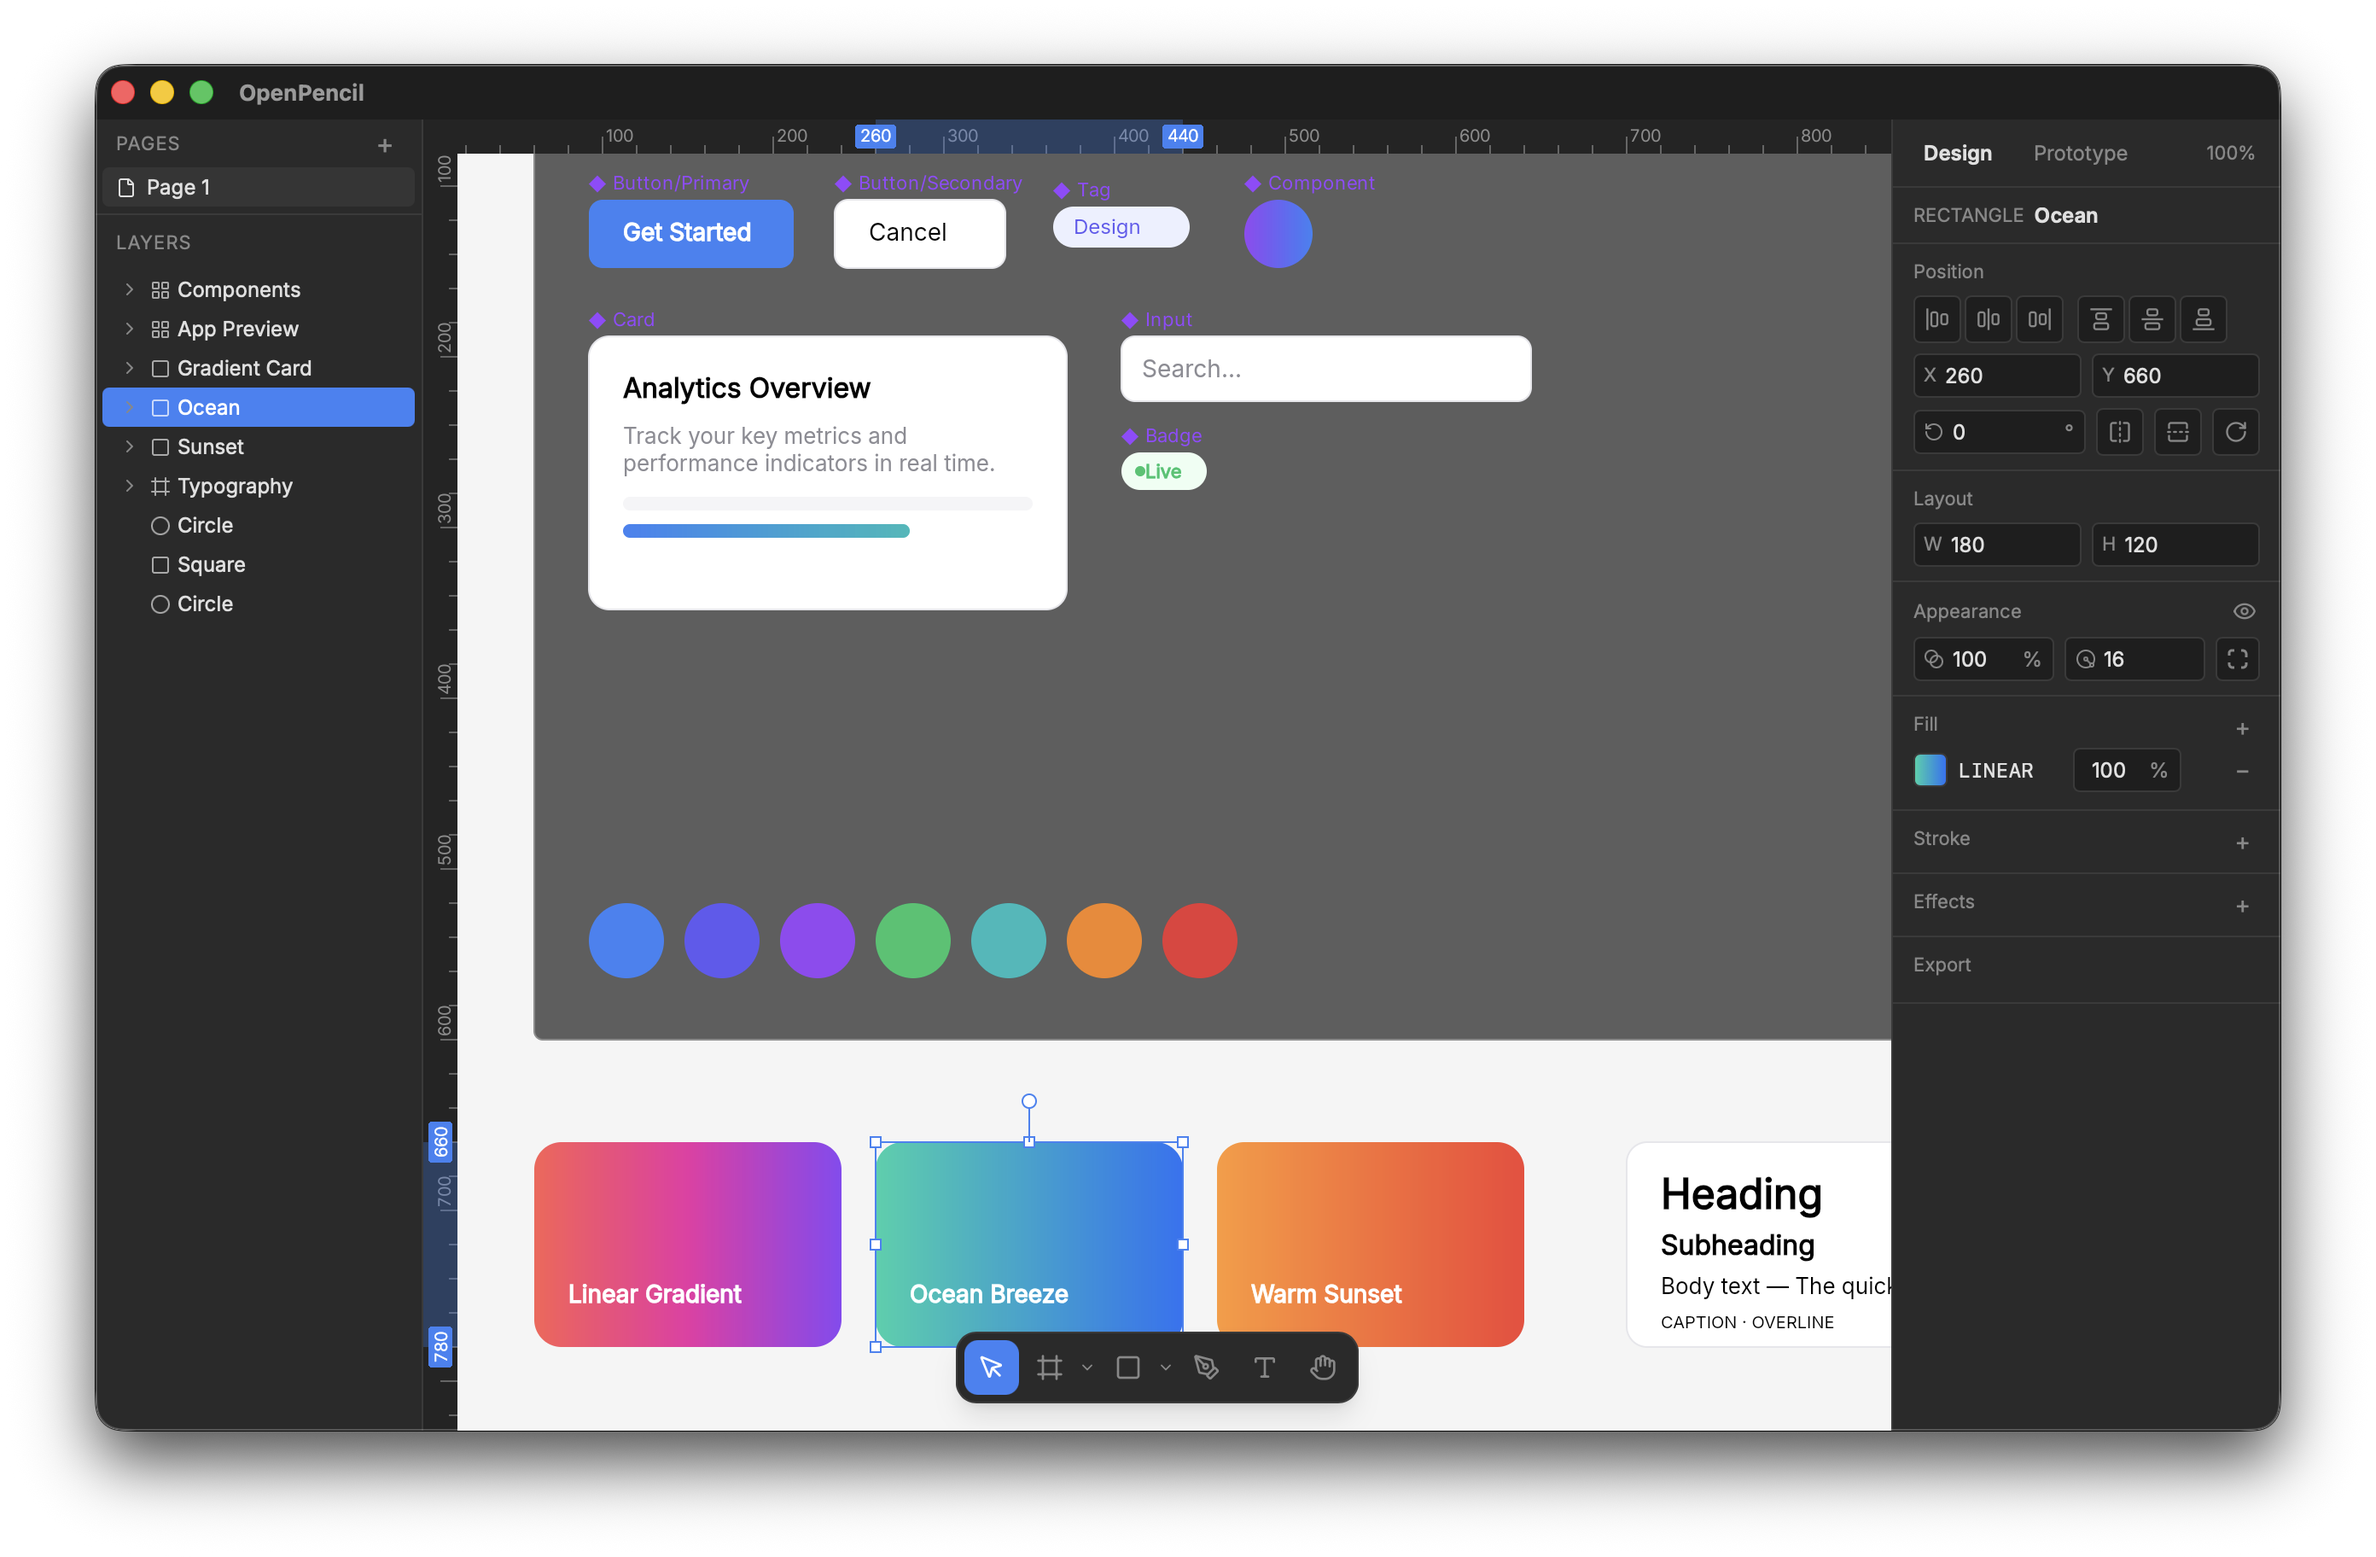
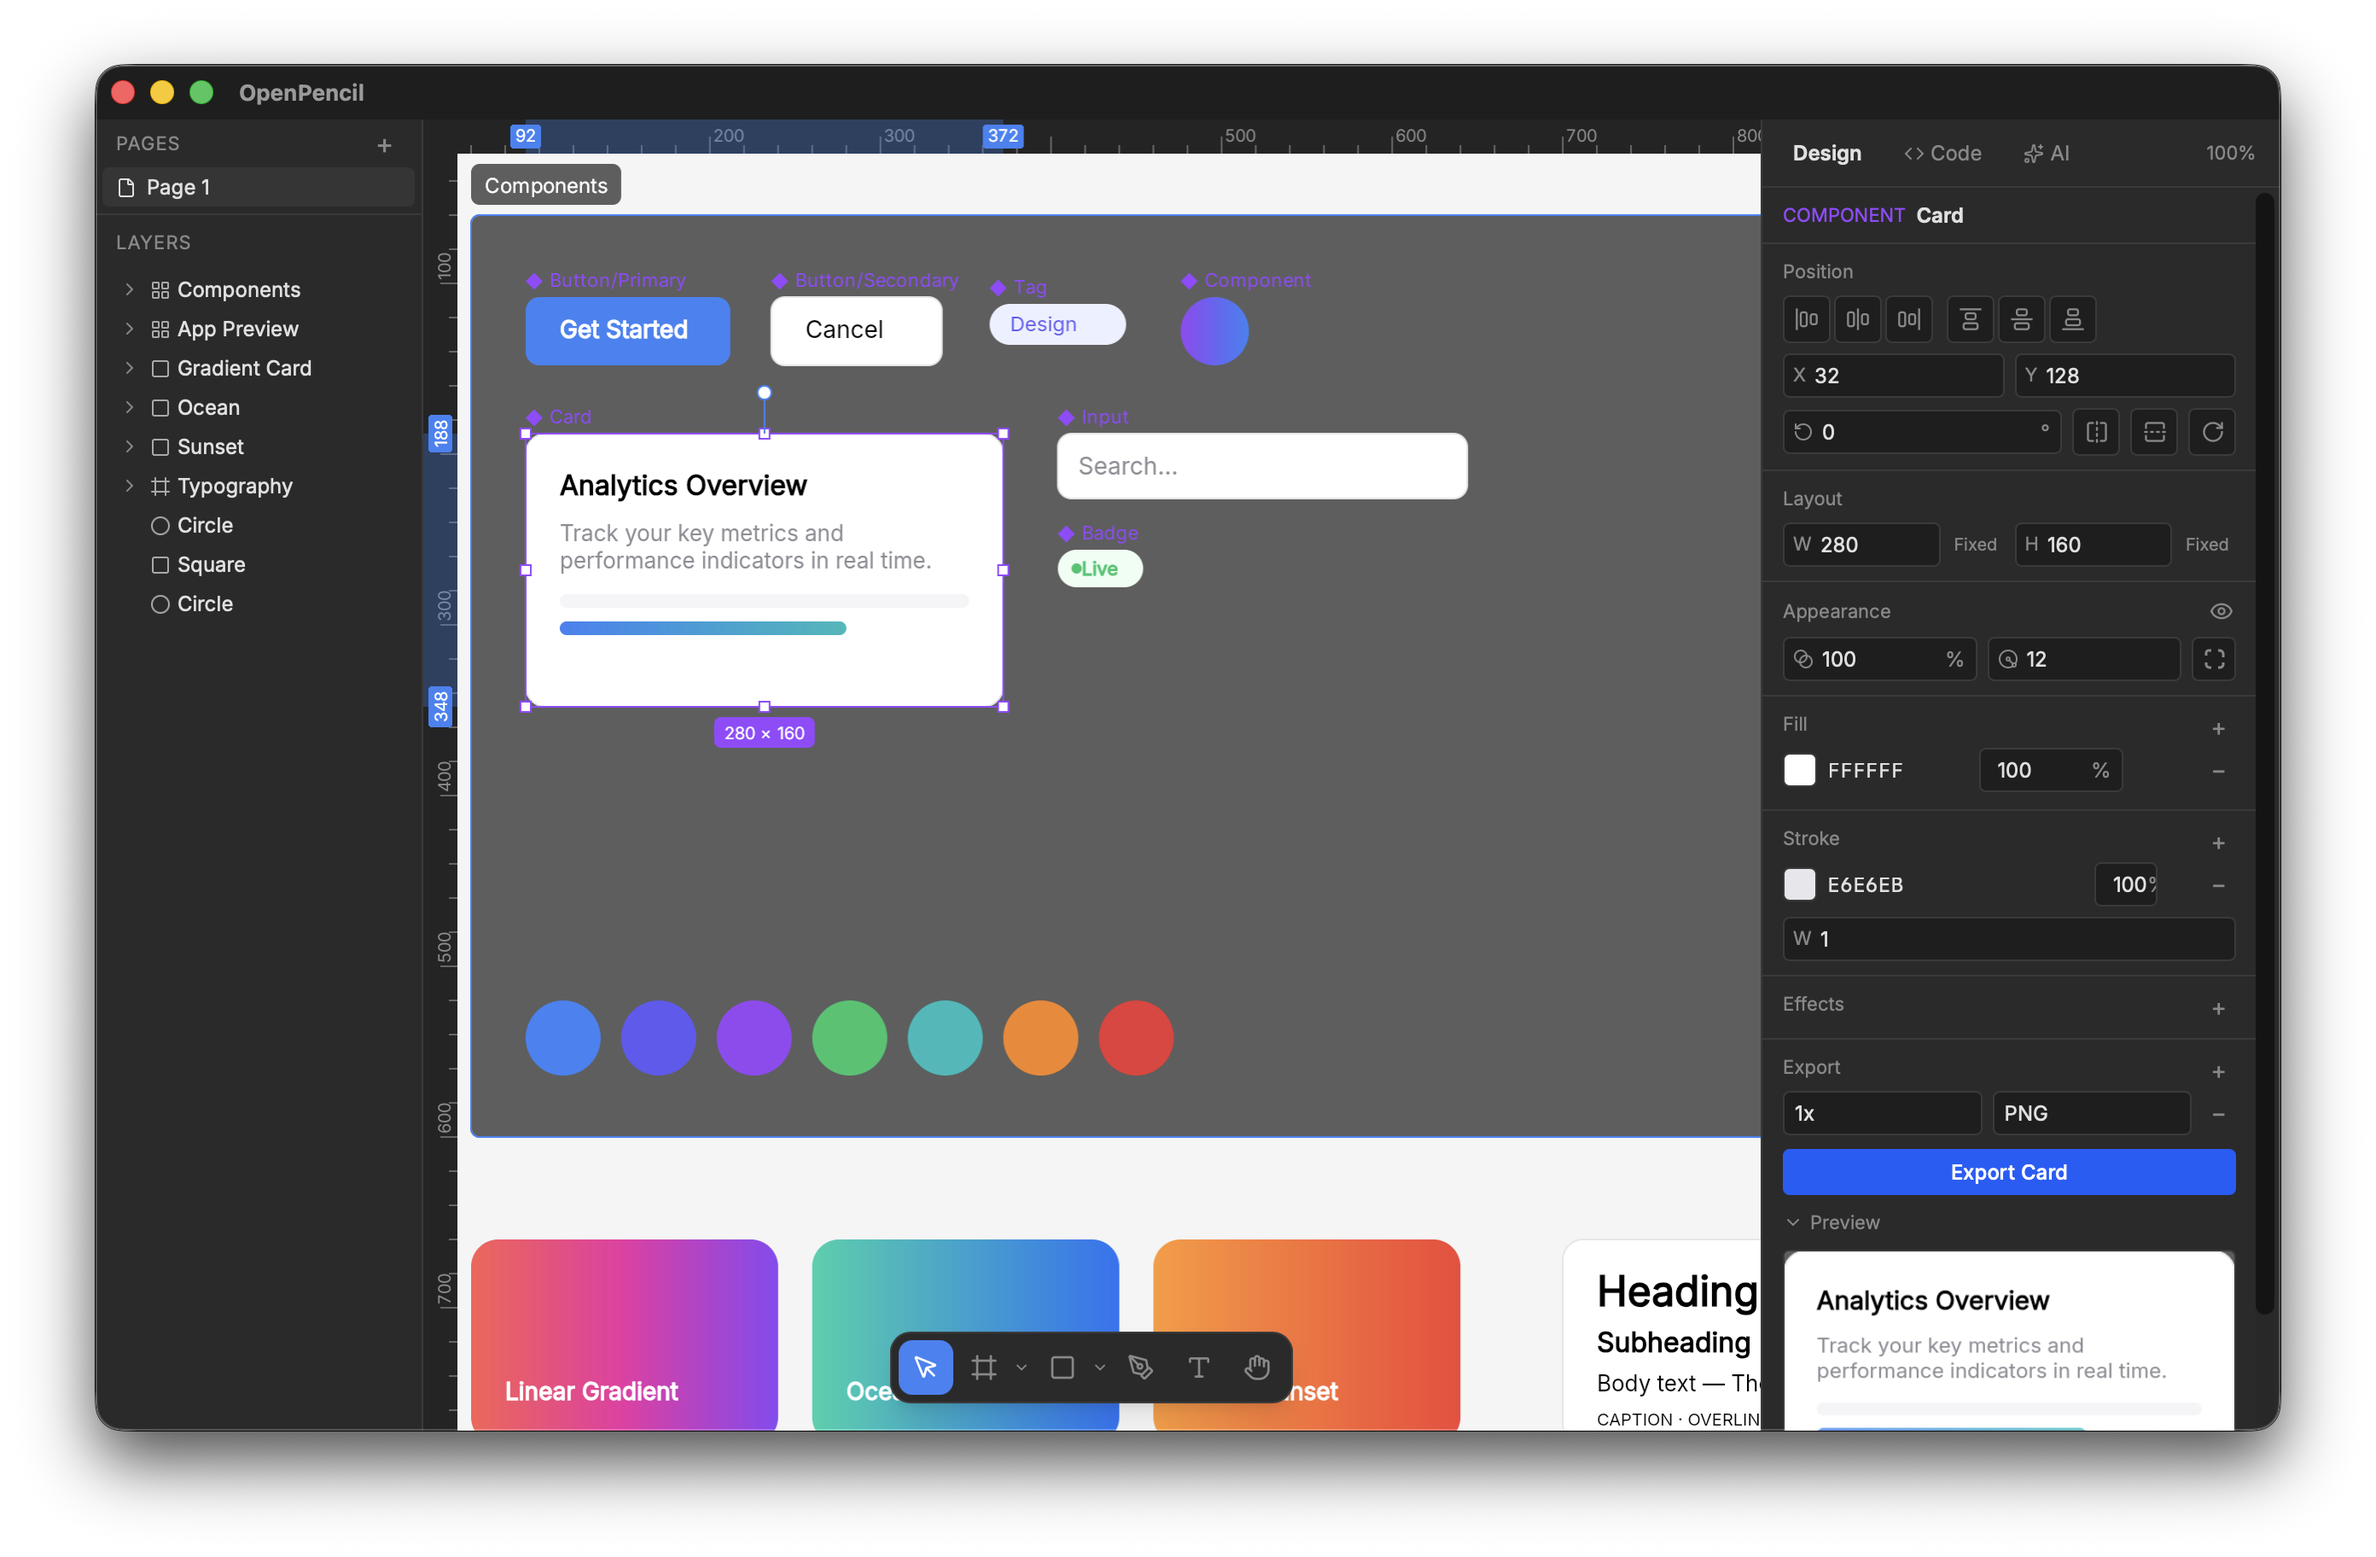
Update screenshot, remove duplicate from repo root
Single screenshot lives in packages/docs/public/. README references it
from there. Custom VitePress layout places it between hero and features.

Changed region(s): [[0.0312, 0.0625, 0.9375, 0.9375], [0.9062, 0.4062, 0.9375, 0.4375]]

diff --git a/packages/docs/.vitepress/theme/HomeLayout.vue b/packages/docs/.vitepress/theme/HomeLayout.vue
@@ -1,0 +1,33 @@
+<script setup lang="ts">
+import DefaultTheme from 'vitepress/theme'
+import { useData } from 'vitepress'
+
+const { Layout } = DefaultTheme
+const { frontmatter } = useData()
+</script>
+
+<template>
+  <Layout>
+    <template #home-hero-after>
+      <div v-if="frontmatter.layout === 'home'" class="screenshot">
+        <img
+          src="/screenshot.png"
+          alt="OpenPencil editor with a Material 3 design file open"
+        />
+      </div>
+    </template>
+  </Layout>
+</template>
+
+<style scoped>
+.screenshot {
+  max-width: 1152px;
+  margin: 0 auto;
+  padding: 0 24px;
+}
+
+.screenshot img {
+  width: 100%;
+  border-radius: 12px;
+}
+</style>

diff --git a/packages/docs/.vitepress/theme/index.ts b/packages/docs/.vitepress/theme/index.ts
@@ -1,0 +1,7 @@
+import DefaultTheme from 'vitepress/theme'
+import HomeLayout from './HomeLayout.vue'
+
+export default {
+  extends: DefaultTheme,
+  Layout: HomeLayout,
+}

diff --git a/packages/docs/index.md b/packages/docs/index.md
@@ -6,9 +6,6 @@ hero:
   name: OpenPencil
   text: AI-Native Design Editor
   tagline: Open-source Figma alternative. Fully local, AI-native, programmable.
-  image:
-    src: /screenshot.png
-    alt: OpenPencil editor with a Material 3 design file open
   actions:
     - theme: brand
       text: Get Started

diff --git a/README.md b/README.md
@@ -4,7 +4,7 @@ Open-source, AI-native design editor. Figma-compatible, AI-first, fully local.
 
 > **Status:** Active development. Not ready for production use.
 
-![OpenPencil](screenshot.png)
+![OpenPencil](packages/docs/public/screenshot.png)
 
 ## Why
 
